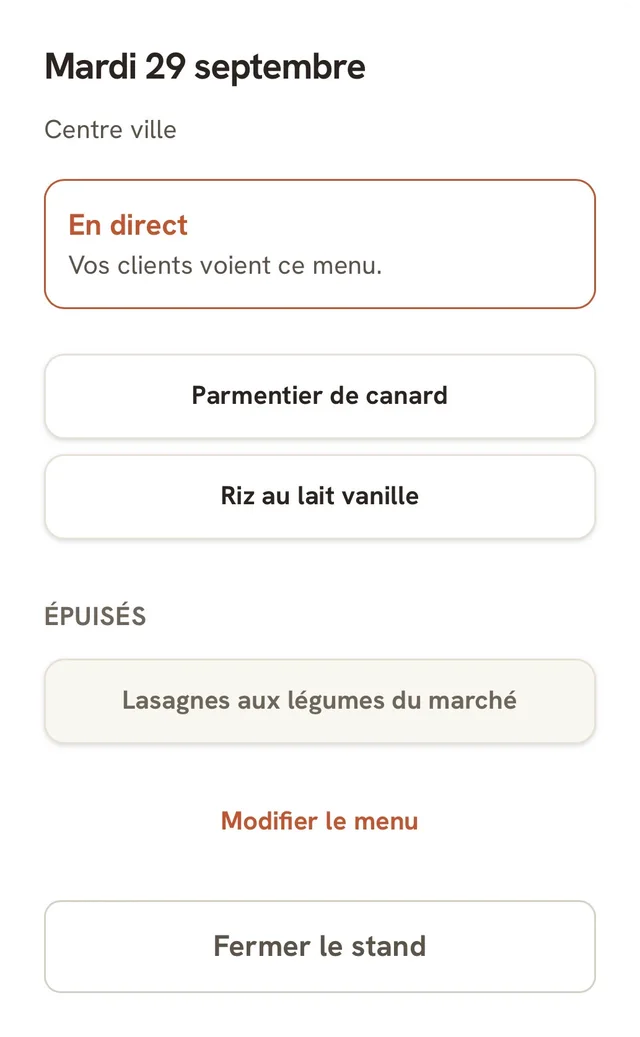
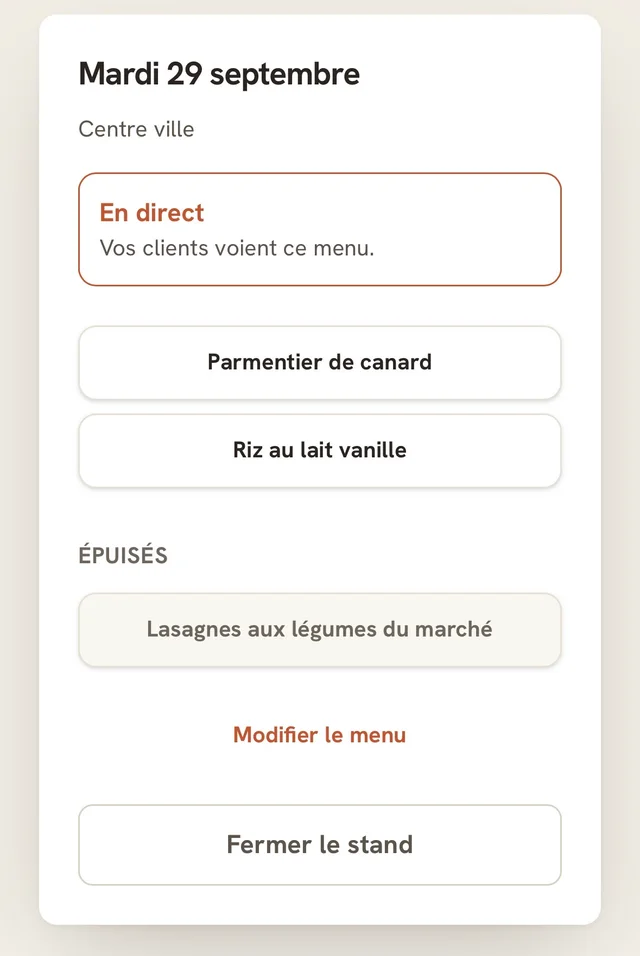
Show the app screens uncropped, with the hero shot's shadow
The dark phone bezel was far too heavy for the page. The screenshots now
keep the app's own background around its card. That margin, with the
thin border, radius and shadow the hero storefront shot already uses,
marks each one as a screen without a frame.

Claude-Session: https://claude.ai/code/session_01HnWuvswGZV31FiJ2nC3hjv

diff --git a/apps/website/README.md b/apps/website/README.md
@@ -18,8 +18,8 @@ transitive dep) if the sources change:
 | `logo.webp` | `apps/vendor-frontend/src/assets/full-logo.png` — trimmed (the PNG is ~⅔ transparent padding), resized to 480px wide |
 | `storefront-demo.webp` | Screenshot of `demo.marketmiam.fr`, content column only, 900px wide |
 | `og.jpg` | 1200×630 share card, composed from the logo and the storefront screenshot |
-| `app-pendant-le-marche.webp` | Phone screenshot of the vendor app's live market screen (*En direct*, one dish under *Épuisés*, *Fermer le stand*): the white card only, corners rounded with an alpha mask, 640px wide |
-| `app-reperes.webp` | Phone screenshot of the vendor app's menu editor for one market, showing the sales labels under each dish: same treatment, cut after the fourth dish |
+| `app-pendant-le-marche.webp` | Phone screenshot of the vendor app's live market screen (*En direct*, one dish under *Épuisés*, *Fermer le stand*), full width with the app's own background kept, 640px wide |
+| `app-reperes.webp` | Phone screenshot of the vendor app's menu editor for one market, showing the sales labels under each dish: same treatment, cut in the gap after the fourth dish |
 
 `astro:assets` is deliberately unused: its optimised output collides with the
 out-of-tree `outDir` in `astro.config.mjs` and the build fails.

diff --git a/docs/WEBSITE-PLAN.md b/docs/WEBSITE-PLAN.md
@@ -312,7 +312,12 @@ text and showed none of it, and those two screens are the product doing the thin
 claim. *Une fois pour toutes* gets no screen on purpose, since it is forms.
 
 Rules for replacing them: phone screenshots, no dish photos in frame (the demo account's look
-generated), the white card cropped out of the vendor app's canvas, recipe in the app README.
+generated), full phone width with the app's own background kept, recipe in the app README.
+They wear the hero shot's border, radius and shadow plus a caption. **Not a dark phone
+bezel**: tried, and far too heavy for the page. **Not cropped to the white card either**:
+the vendor app shares the site's tokens and fonts, so a bare card reads as page content,
+and on a phone as buttons to press. The app's background around the card is what marks
+it as a screen.
 They carry a date (*Mardi 29 septembre*); that ages fine, but reshoot if the screens change.
 
 ### 6. The close clause — done
